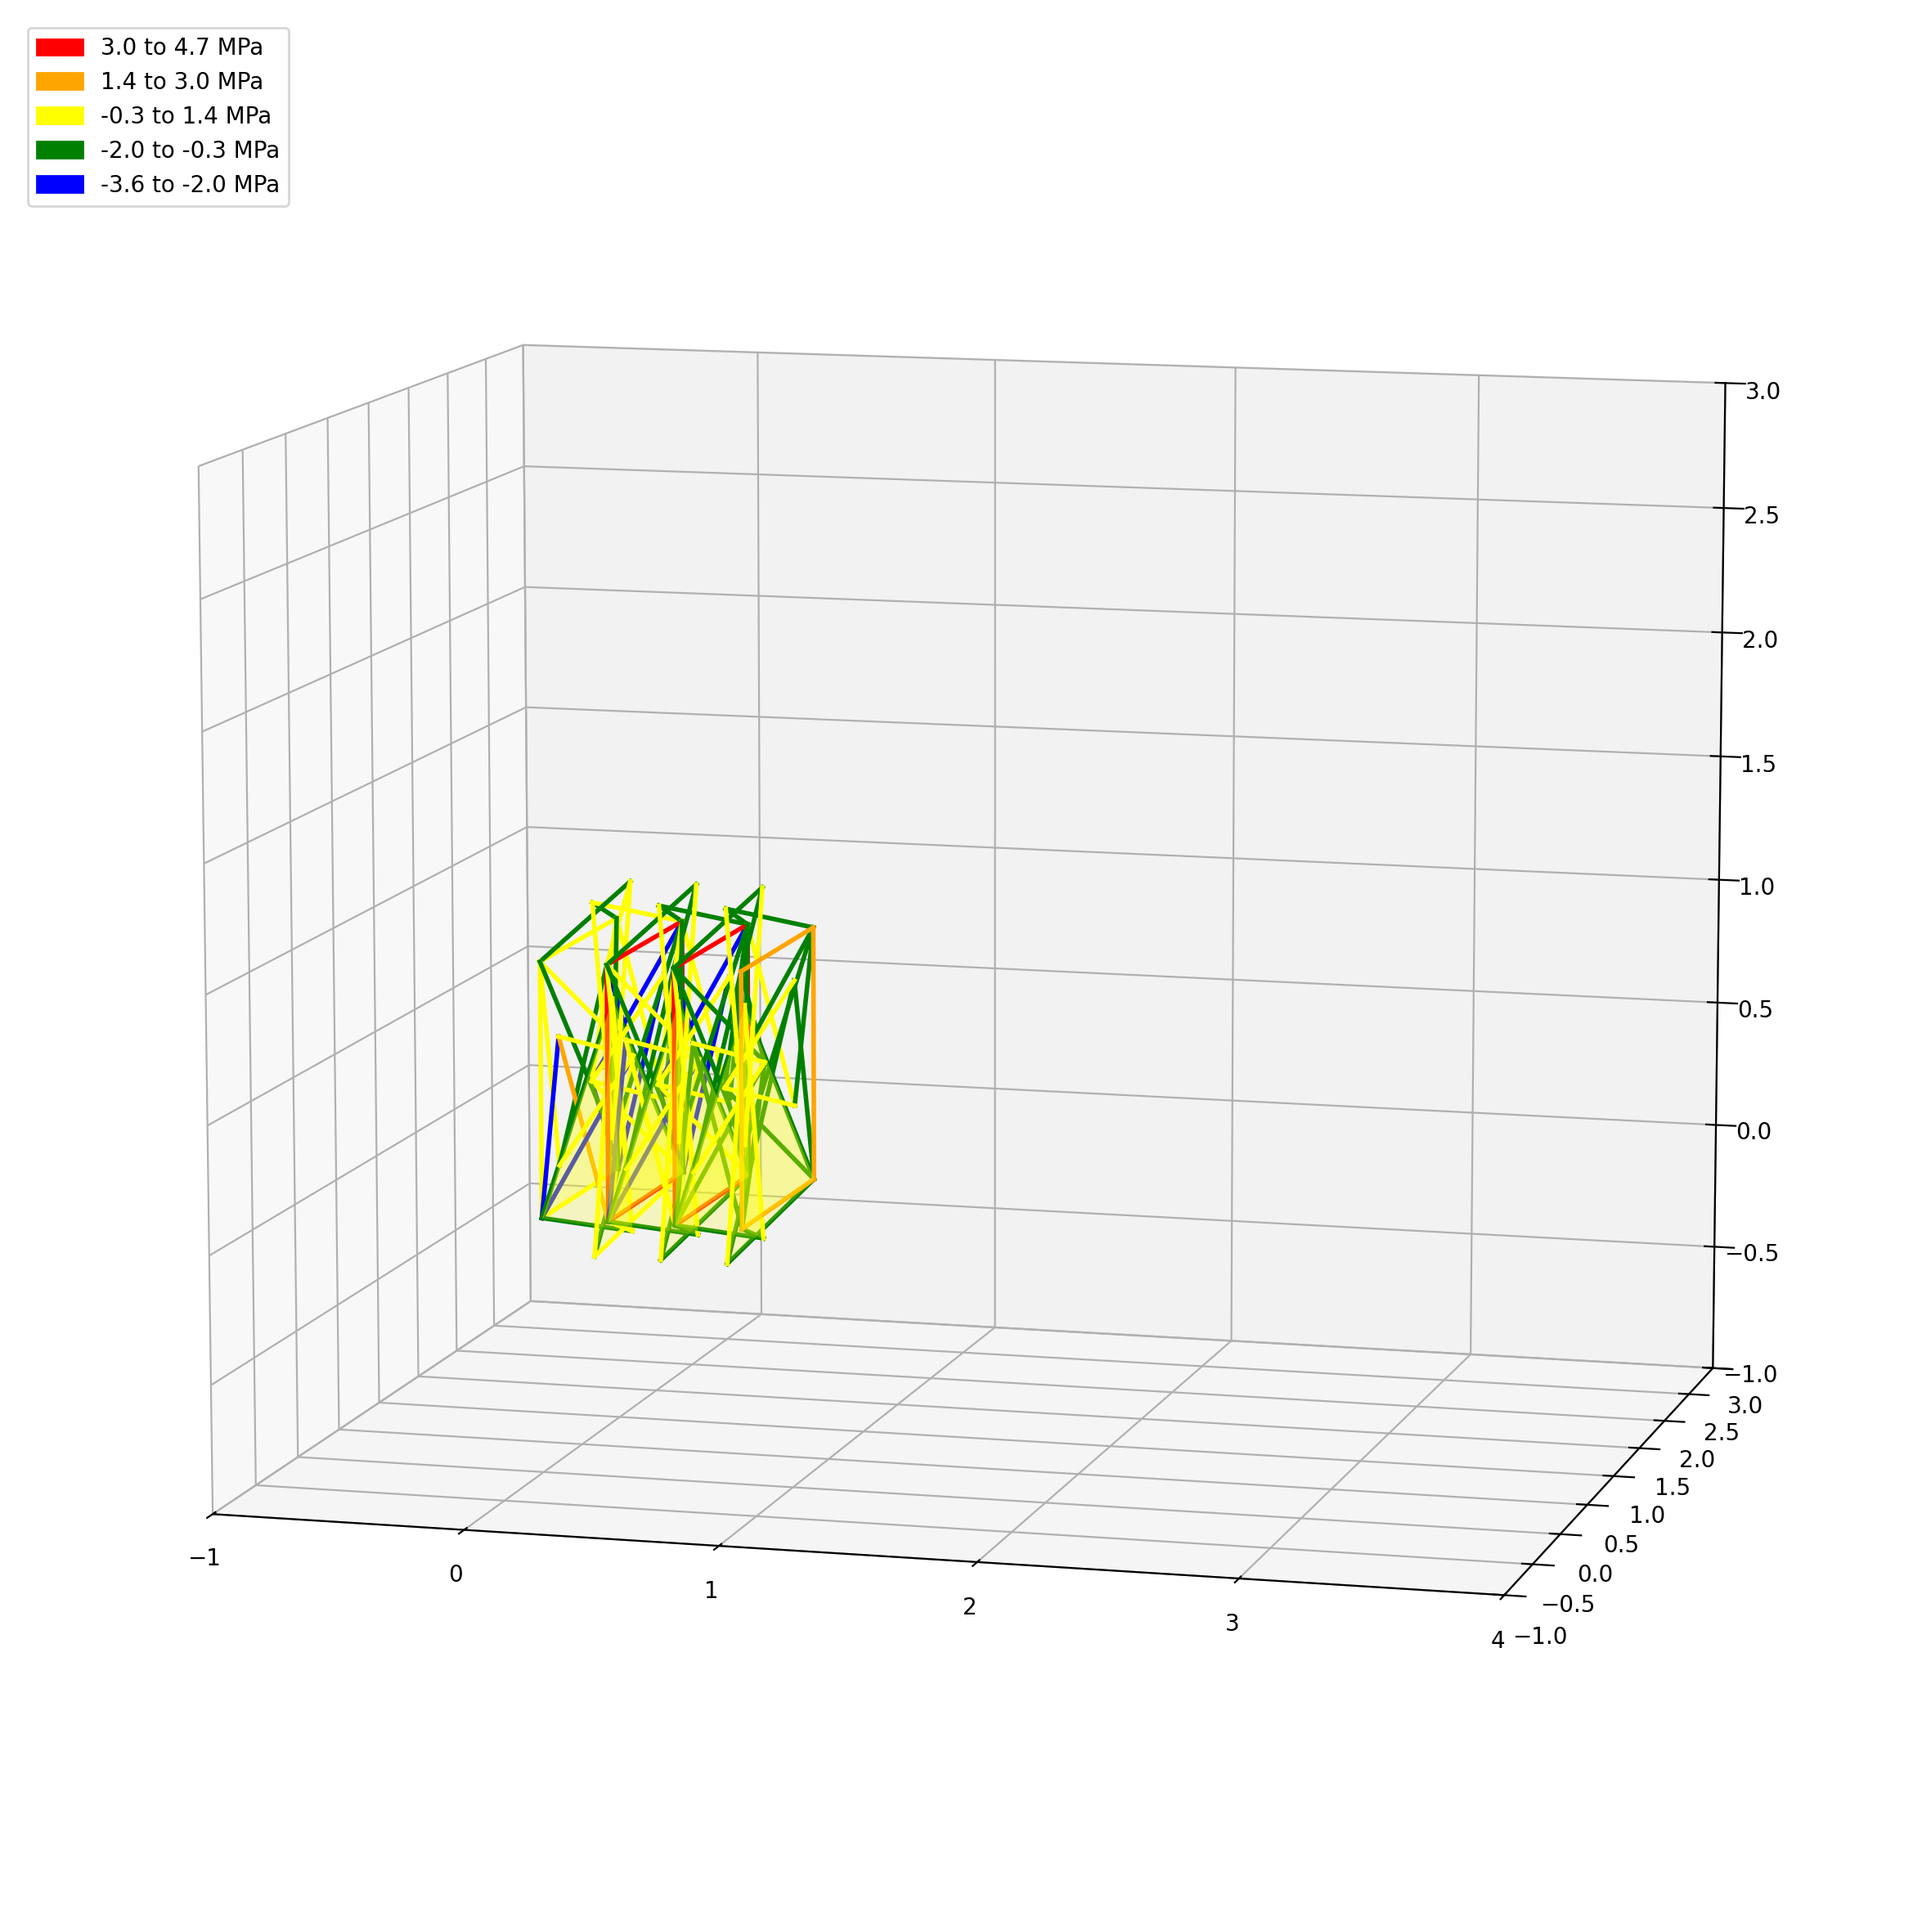
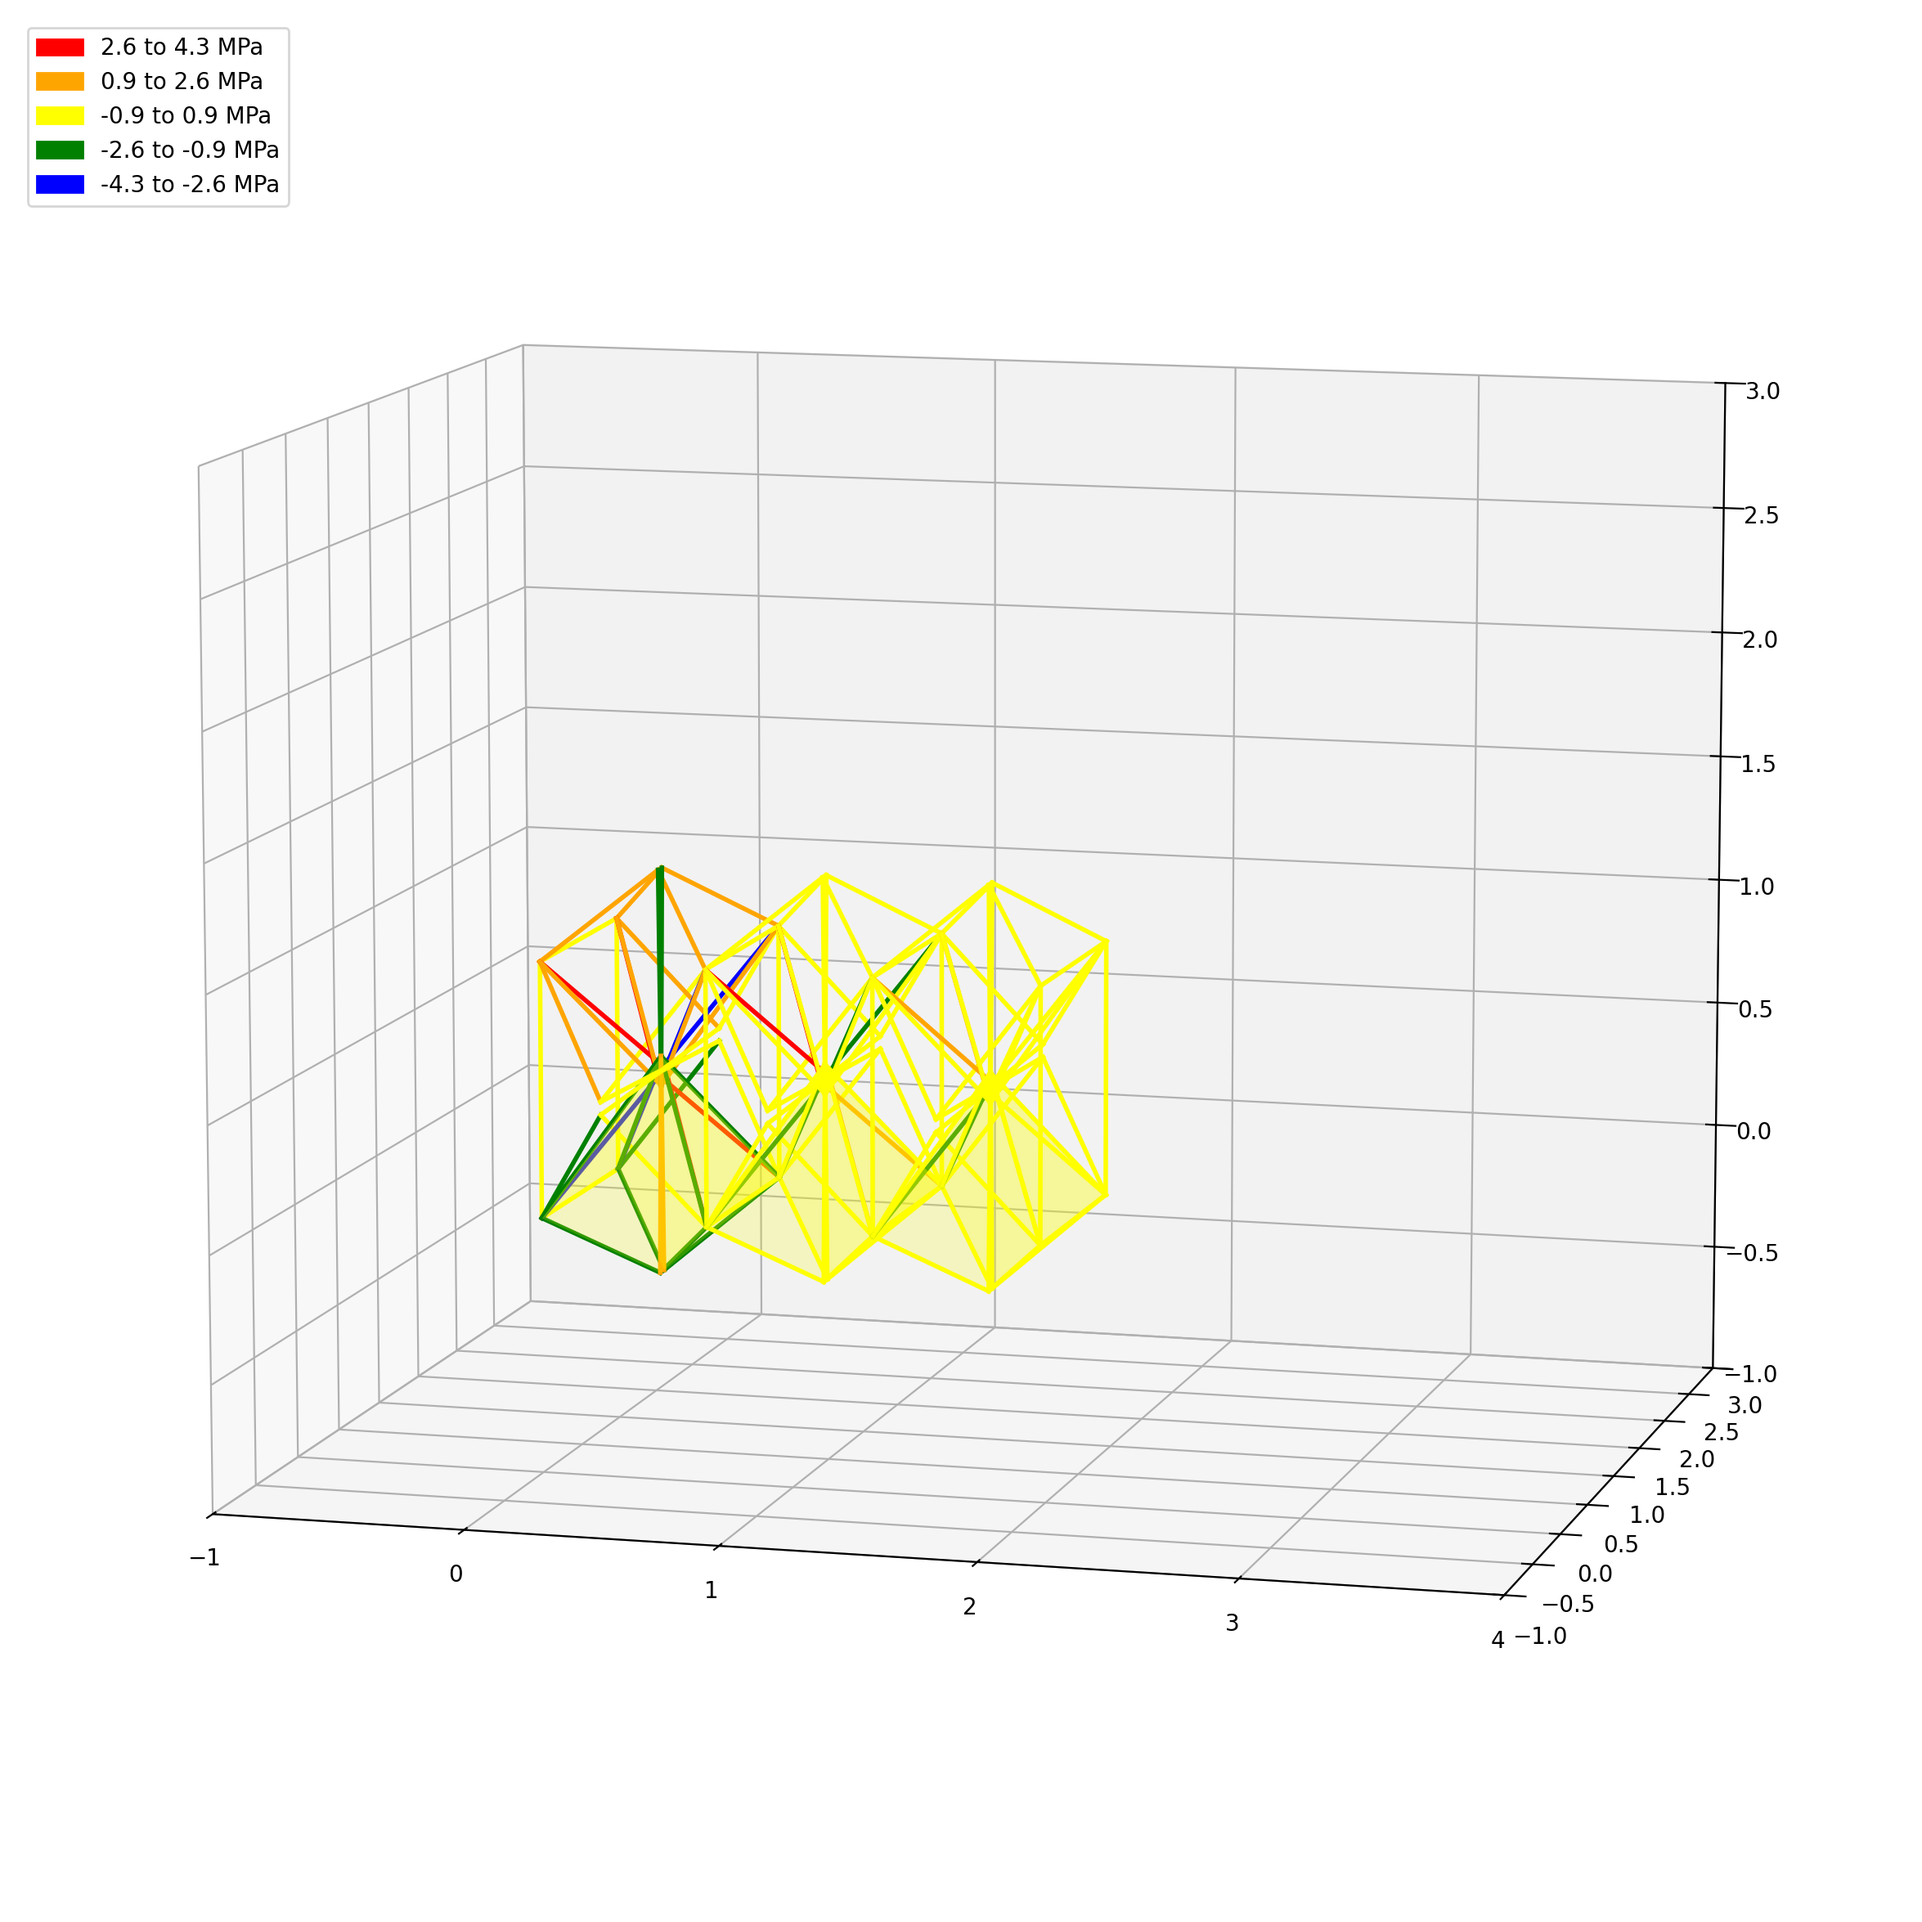
update

Changed region(s): [[0.2796, 0.4349, 0.5902, 0.6834], [0.0932, 0.0311, 0.1243, 0.0621]]

diff --git a/streamlit_app.py b/streamlit_app.py
@@ -38,13 +38,18 @@ L = st.selectbox(
 
 st.subheader("Strength during deployment")
 
+DepRate = st.selectbox(
+     "Deployment Ratio:",
+     [0.1,0.2,0.3,0.4,0.5,0.6,0.7,0.8,0.9,1.0])
+
+
 st.text('Here we quickly set up the deployable kirigami truss bridge by picking ' +
         'the number of sections and truss areas. The following pre-simulated ' +
         'GIF will show the deployment kinematics. This GIF shows a bridge with.' +
         'a section length to be 1 meter')
 
 if BridgeType=='kirigami':        
-    fig1,fig2=kirigami_deploy(L, N)    
+    fig1,fig2=kirigami_deploy(L, N, DepRate)    
     # st.image("Kirigami_Truss_Strength_During_Deploy_Bar_Failure.png")
     # st.image("Kirigami_Truss_Strength_During_Deploy_Bar_Stress.png")    
     st.pyplot(fig1)

diff --git a/Kirigami_Truss_Strength_During_Deploy.py b/Kirigami_Truss_Strength_During_Deploy.py
@@ -68,7 +68,7 @@ def write_summary(name, lines):
     print(f"Saved: {path}")
 
 
-def kirigami_deploy(L, N, dep_rate = 0.3, barA = 0.00415, barE = 2.0e11, Ix = 7.16e-6, Fy = 345e6, Fu = 427e6,  Rp = 1.0):
+def kirigami_deploy(L, N, dep_rate, barA = 0.00415, barE = 2.0e11, Ix = 7.16e-6, Fy = 345e6, Fu = 427e6,  Rp = 1.0):
     start = time.time()
     An = barA * 0.9   
     r_val = np.sqrt(Ix / barA)
